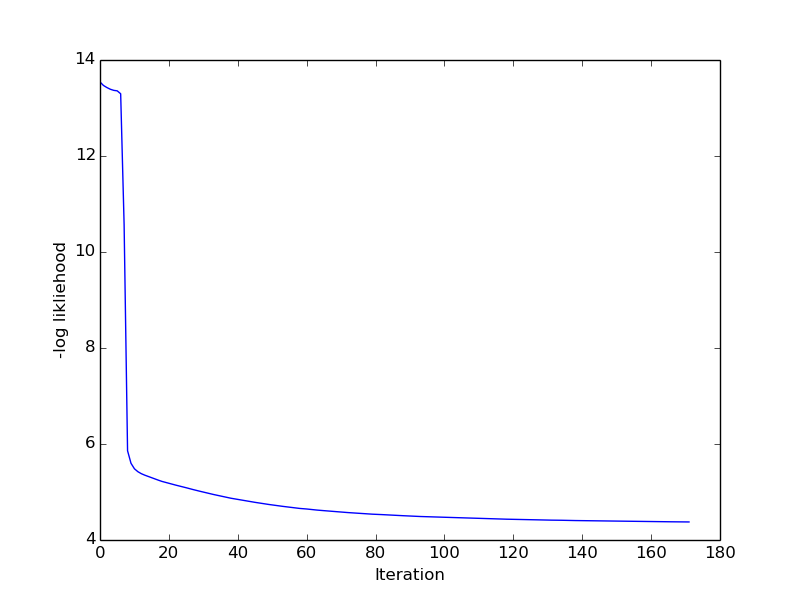
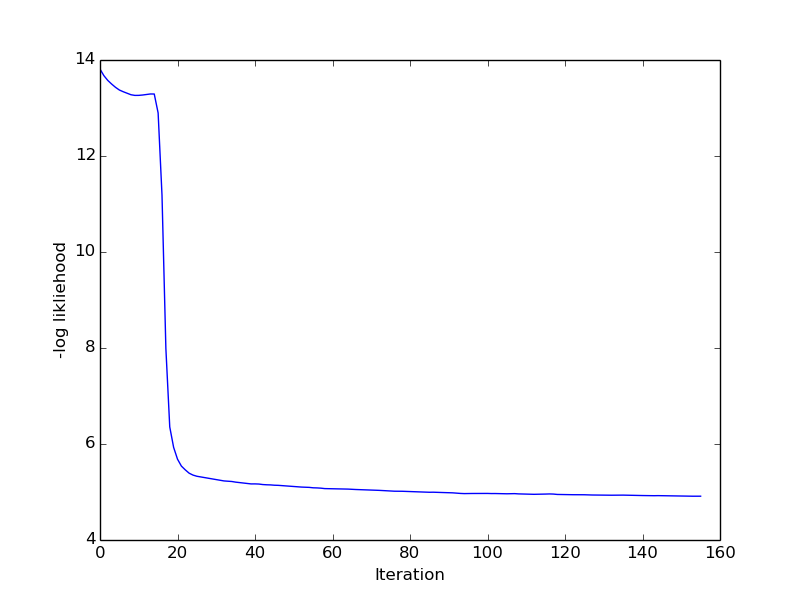
gradient descent changes

diff --git a/project/gradient_descent.py b/project/gradient_descent.py
@@ -1,0 +1,122 @@
+import scipy
+import numpy as np
+import pandas as pd
+import matplotlib.pyplot as plt
+import sklearn as sk
+from sklearn import datasets
+from sklearn import preprocessing
+from time import time
+
+#Calculate w for a given b and x
+def calc_w(X, b):
+    return 1/(1 + np.exp(- X * b))
+
+#Calculate the slope of the cost function for a single data point, i
+def calc_gradient(X, y, b):
+    lam = 0.1
+    w = calc_w(X, b)
+    return X.T * (w-y)/X.shape[0] + lam * (b > 0).astype(float) - lam * (b < 0).astype(float) #Include penalty term on the gradient
+
+#Calculate likliehood function
+def calc_l(X, y, b):
+    lam = 0.1
+    w = calc_w(X, b)
+    l = -(np.dot(y.T, np.log(w + 1e-7)) + np.dot((1 - y).T, np.log(1-w + 1e-7)))/X.shape[0] +  lam * np.linalg.norm(b, 1) #include penalty term on the loss function
+    return l
+
+#Check the convergance of the log likliehood function within some criteria, e. Return true converged
+def test_converge(l, e):
+    if len(l)>5: 
+        conv = (l[len(l)-1]-l[len(l)-2])/l[len(l)-1]
+        conv2 = (l[len(l)-2]-l[len(l)-3])/l[len(l)-2] 
+        if abs(conv) < e and abs(conv2) < e: #only return true if two successive entries meet criteria. Reduces chance of ending adagrad before converging
+            return 1
+        else:
+            return 0
+    else:
+        return 0 
+
+#Perform stocastic gradient descent on b. Give the likliehood at each step.
+def run_descent(e, step_size):
+
+    hist_grad=0 #track gradient
+    i = 0 #track iteration count
+
+    #Initialize X, y, b, and l
+    X,y= read_file('input_data')
+    b = np.random.rand(X.shape[1])
+    l = []
+
+    while not test_converge(l, e):
+        i+=1
+        #X,y= read_file('test_data', i, batch_size) #Read in the data a little at a time
+        if i%20==0:
+            step_size=0.8*step_size #decrease step size over time
+            print i
+        grad_b = calc_gradient(X, y, b) 
+        hist_grad += np.square(grad_b) #update hist grad
+        b -= grad_b*step_size*(1/np.sqrt(hist_grad + e)) #update b
+        l.append(calc_l(X, y, b)) #track l
+
+    return b, l 
+
+#Test if the b found correctly predicts B or M, given X, y and calculated b. Return fraction of success
+def predict_acc(b):
+    X,y = read_file('test_data')#, 0, 100000) #Read in a section of the file
+    X = sk.preprocessing.normalize(X)
+    w_pred = calc_w(X, b)
+    n_correct = 0
+    p = []
+
+    for i in range(len(y)):
+        if w_pred[i] > 0.5:
+            p.append(1)
+        else:
+            p.append(0)
+
+        if p[i]==y[i]:
+            n_correct+=1
+
+    score_sig = w_pred[y == 1]
+    score_bkg = w_pred[y == 0]
+
+    significance = 0
+    for val in np.linspace(0, 1, num=200):
+        sig = len(score_sig[score_sig > val] )
+        bkg = len(score_bkg[score_bkg > val] )
+        temp_sig = sig/np.sqrt(bkg)
+        if temp_sig > significance:
+            significance = temp_sig
+
+    return score_sig, score_bkg, float(n_correct)/float(len(y)), significance
+
+#Read in a section of the file
+def read_file(f):#, i, batch_size):
+    X,y = sk.datasets.load_svmlight_file(f)#, n_features=17, offset=i*batch_size, length=batch_size)
+    X = X.tocsr()
+    return X, y
+    
+batch_size = 100000
+
+#Run adagrad, looping over the files
+start = time()
+b, l = run_descent(0.0001, 0.1)
+end = time()
+
+print "Time to complete: "+str(end-start)
+
+plt.figure(0)
+plt.plot(l)
+
+plt.ylabel('-log likliehood')
+plt.xlabel('Iteration')
+plt.savefig('plots/result_gradient.png', format = 'png')
+
+#b_tot = b_tot/np.linalg.norm(b_tot, ord=1)
+score_sig, score_bkg, acc, significance = predict_acc(b)
+print "Accuracey of prediction: "+str(acc)
+print "Significance of signal: "+str(significance)
+
+plt.figure(1)
+plt.hist([score_sig,score_bkg], label="Signal")
+plt.savefig('plots/gradient_dis.png', format= 'png')

diff --git a/project/admm.py b/project/admm.py
@@ -10,8 +10,7 @@ from time import time
 #Calculate mse of estimate
 def calc_mse(y_pred, y):
     mse = 0
-    for i,j in zip(y,y_pred):
-        mse+=np.square(i-j)
+    mse = (np.square(y_pred-y)).sum()
     mse=mse/len(y)
     return mse
 
@@ -57,17 +56,6 @@ def cross_val(X, y, alpha, n):
         
     return err/n
 
-#Run proximal gradient descent
-def run_prox(X, y, alpha):
-    b = None
-    b = np.random.rand(X.shape[1])
-    err = []
-    while not test_converge(err, 10e-5):
-        u = b + 0.1 * (X.transpose()).dot( y - X.dot(b) )/(2*y.shape[0]) + alpha * (b > 0).astype(float) - alpha * (b < 0).astype(float)
-        b = calc_prox(u, alpha)
-        err.append(calc_mse(X.dot(b), y )+alpha*sum(abs(b)))
-    return b, err
-
 #Run admm
 def run_admm(X, y, alpha, rho = 1):
 
@@ -80,30 +68,16 @@ def run_admm(X, y, alpha, rho = 1):
     x_inv = np.dot( X.transpose(), X ) + rho * np.identity( X.shape[1] )
     xy = np.dot(X.transpose(), y)
 
+    i=0
     while not test_converge(err, 10e-5):
-        print calc_mse(np.dot(X, b), y)+alpha*sum(abs(z))
+        i+=1
+        print i
+        if i > 200:
+            break
         b = np.linalg.solve(x_inv, xy + rho* (z - u ))
         z = calc_prox( b + u , alpha/rho)
         u = u + b - z
-        err.append(calc_mse(np.dot(X, b), y)+alpha*sum(abs(z)))
-    return b, err
-
-#Run proximal gradient descent with momentum
-def run_mom(X, y, alpha):
-    b = None
-    b = np.random.rand(X.shape[1])
-    err = []
-    s = [1,]
-    b_vec = [b.copy(),]
-    z = b.copy()
-
-    while not test_converge(err, 10e-8):
-        u = z + 0.1*np.dot(X.transpose(), y - X.dot(z))/(2*y.shape[0])
-        b = calc_prox(u, alpha)
-        b_vec.append(b)
-        s.append((1+np.sqrt(1+4*s[-1]**2))/2)
-        z = b_vec[-1] + ((s[-1]-1)/s[-2])*(b_vec[-1]-b_vec[-2]) + alpha * (b > 0).astype(float) - alpha * (b < 0).astype(float)
-        err.append(calc_mse( X.dot(b), y )+alpha*sum(abs(b)))
+        err.append(sk.metrics.mean_squared_error(np.dot(X, b), y))#+alpha*sum(abs(z)))
     return b, err
 
 #Read in data
@@ -116,15 +90,15 @@ n_samples = X.shape[0]
 
 #Plot the loss for proximal, momentum, and admm
 time0 = time()
-b_prox, err_prox = run_prox(X, y, 0.01)
+#b_prox, err_prox = run_prox(X, y, 0.01)
 time1 = time()
 print "past prox"
 
-b_mom, err_mom = run_mom(X, y, 0.01)
+#b_mom, err_mom = run_mom(X, y, 0.01)
 time2 = time()
 print "past mom"
 
-b_admm, err_admm = run_admm(X, y, 0.001)
+b_admm, err_admm = run_admm(X, y, 0.01)
 time3 = time()
 print "admm"
 
@@ -133,9 +107,9 @@ time_mom = time2-time1
 time_admm = time3-time2
 
 plt.figure(6)
-plt.semilogx(err_prox, label='Proximal')
-plt.semilogx(err_mom, label='With Momentum')
-plt.semilogx(err_admm, label='ADMM')
+plt.plot(err_admm, label='Proximal')
+#plt.semilogx(err_mom, label='With Momentum')
+#plt.semilogx(err_admm, label='ADMM')
 plt.ylabel('L')
 plt.xlabel('iteration')
 plt.legend(loc='upper right')
